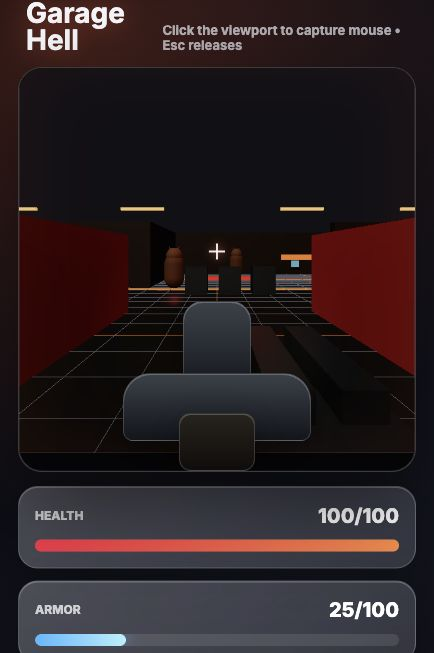
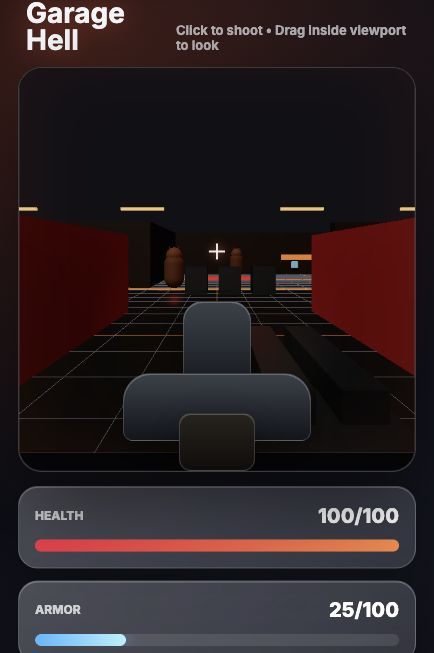
Stabilize browser controls and combat

Changed region(s): [[0.3594, 0.0306, 0.9286, 0.0919], [0.659, 0.3982, 0.6889, 0.4288]]

diff --git a/src/main.js b/src/main.js
@@ -36,7 +36,14 @@ class GarageHellGame {
     this.running = false;
     this.won = false;
     this.inCombat = false;
+    this.fallbackPointer = {
+      active: false,
+      moved: false,
+      x: 0,
+      y: 0
+    };
     this.bindEvents();
+    this.updateControlHints();
     this.resize();
     this.ui.update(this.state);
     requestAnimationFrame(() => this.loop());
@@ -55,13 +62,30 @@ class GarageHellGame {
     this.ui.bindStart(() => this.startOrRestart());
     this.viewport.addEventListener("click", () => {
       this.audio.unlock();
-      if (!this.running || this.player.dead || this.won) return;
-      this.captureMouse();
     });
     window.addEventListener("mousedown", (event) => {
-      const aimingAtViewport = document.pointerLockElement === this.viewport || this.viewport.contains(event.target);
+      const aimingAtViewport = this.viewport.contains(event.target);
       if (event.button !== 0 || !aimingAtViewport) return;
-      if (this.running && !this.player.dead && !this.won) this.weapon.tryFire(this.enemies);
+      if (!this.running || this.player.dead || this.won) return;
+      this.audio.unlock();
+      this.fallbackPointer = {
+        active: true,
+        moved: false,
+        x: event.clientX,
+        y: event.clientY
+      };
+    });
+    window.addEventListener("mousemove", (event) => {
+      if (!this.fallbackPointer.active) return;
+      const dx = event.clientX - this.fallbackPointer.x;
+      const dy = event.clientY - this.fallbackPointer.y;
+      if (dx * dx + dy * dy > 36) this.fallbackPointer.moved = true;
+    });
+    window.addEventListener("mouseup", (event) => {
+      if (event.button !== 0 || !this.fallbackPointer.active) return;
+      const shouldShoot = !this.fallbackPointer.moved && this.viewport.contains(event.target);
+      this.fallbackPointer.active = false;
+      if (shouldShoot && this.running && !this.player.dead && !this.won) this.fireWeapon();
     });
     window.addEventListener("keydown", (event) => {
       if (event.code === "KeyE" && this.running && !this.player.dead && !this.won) {
@@ -71,6 +95,13 @@ class GarageHellGame {
         this.startOrRestart();
       }
     });
+  }
+
+  updateControlHints() {
+    const hint = document.querySelector(".hint");
+    if (hint) hint.textContent = "Click to shoot • Drag inside viewport to look";
+    const controls = document.querySelector(".controls-panel p");
+    if (controls) controls.textContent = "WASD move • Drag look • Click fire • Shift sprint • Space jump • R reload • E open";
   }
 
   get state() {
@@ -97,17 +128,14 @@ class GarageHellGame {
     this.pickups.reset(this.level.pickups);
     this.running = true;
     this.won = false;
+    this.fallbackPointer.active = false;
+    this.fallbackPointer.moved = false;
     this.ui.hideOverlay();
     this.ui.showMessage("Clear all Oil Imps.", "FIGHTING");
   }
 
-  captureMouse() {
-    try {
-      const lock = this.viewport.requestPointerLock?.();
-      if (lock?.catch) lock.catch(() => {});
-    } catch {
-      // Pointer lock can be blocked in embedded preview browsers; direct local play still works.
-    }
+  fireWeapon() {
+    this.weapon.tryFire(this.enemies, this.level.getActiveColliderMeshes());
   }
 
   resize() {
@@ -144,7 +172,6 @@ class GarageHellGame {
       this.running = false;
       this.ui.update(this.state);
       this.ui.showOverlay("Garage Cleared", "Every Oil Imp is down. Hell Bent Auto Repair survives another night.", "Restart");
-      document.exitPointerLock?.();
       return;
     }
 

diff --git a/src/player.js b/src/player.js
@@ -32,6 +32,7 @@ export class Player {
     this.lookSensitivity = 0.0022;
     this.footBob = 0;
     this.damageCooldown = 0;
+    this.spawnProtection = 3;
     this.dragLook = false;
     this.bindControls();
     this.syncCamera();
@@ -43,8 +44,9 @@ export class Player {
       this.setKey(event.code, true);
     });
     window.addEventListener("keyup", (event) => this.setKey(event.code, false));
+    window.addEventListener("blur", () => this.clearControls());
     this.level.viewport.addEventListener("mousedown", (event) => {
-      if (event.button === 0 && document.pointerLockElement !== this.level.viewport && !this.dead) {
+      if (event.button === 0 && !this.dead) {
         this.dragLook = true;
       }
     });
@@ -55,8 +57,7 @@ export class Player {
       this.dragLook = false;
     });
     window.addEventListener("mousemove", (event) => {
-      const canLook = document.pointerLockElement === this.level.viewport || this.dragLook;
-      if (!canLook || this.dead) return;
+      if (!this.dragLook || this.dead) return;
       this.yaw -= event.movementX * this.lookSensitivity;
       this.pitch -= event.movementY * this.lookSensitivity;
       this.pitch = clamp(this.pitch, -1.25, 1.25);
@@ -73,7 +74,15 @@ export class Player {
     if (code === "Space") this.controls.jump = active;
   }
 
+  clearControls() {
+    for (const key of Object.keys(this.controls)) {
+      this.controls[key] = false;
+    }
+    this.dragLook = false;
+  }
+
   reset() {
+    this.clearControls();
     this.position.set(0, 1.65, 6.25);
     this.velocity.set(0, 0, 0);
     this.pitch = 0;
@@ -84,12 +93,14 @@ export class Player {
     this.keys = { red: false, blue: false, yellow: false };
     this.pickupCounts = { health: 0, armor: 0, ammo: 0 };
     this.damageCooldown = 0;
+    this.spawnProtection = 3;
     this.syncCamera();
   }
 
   update(dt) {
     if (this.dead) return;
     this.damageCooldown = Math.max(0, this.damageCooldown - dt);
+    this.spawnProtection = Math.max(0, this.spawnProtection - dt);
 
     const forward = new THREE.Vector3(-Math.sin(this.yaw), 0, -Math.cos(this.yaw));
     const right = new THREE.Vector3(Math.cos(this.yaw), 0, -Math.sin(this.yaw));
@@ -136,8 +147,8 @@ export class Player {
   }
 
   applyDamage(amount) {
-    if (this.dead || this.damageCooldown > 0) return;
-    this.damageCooldown = 0.28;
+    if (this.dead || this.damageCooldown > 0 || this.spawnProtection > 0) return;
+    this.damageCooldown = 0.55;
     const armorBlock = Math.min(this.armor, amount * 0.62);
     this.armor -= armorBlock;
     this.health -= amount - armorBlock;
@@ -147,7 +158,6 @@ export class Player {
       this.health = 0;
       this.dead = true;
       this.audio.death();
-      document.exitPointerLock?.();
     }
   }
 

diff --git a/src/level.js b/src/level.js
@@ -248,4 +248,20 @@ export class Level {
     door.collider.active = false;
     door.mesh.visible = false;
   }
+
+  getActiveColliderMeshes() {
+    return this.colliders
+      .filter((collider) => collider.active && collider.object?.visible !== false)
+      .map((collider) => collider.object);
+  }
+
+  hasLineOfSight(from, to, clearance = 0.2) {
+    const direction = new THREE.Vector3().subVectors(to, from);
+    const distance = direction.length();
+    if (distance <= 0.001) return true;
+    direction.normalize();
+
+    const raycaster = new THREE.Raycaster(from, direction, 0, Math.max(0, distance - clearance));
+    return raycaster.intersectObjects(this.getActiveColliderMeshes(), true).length === 0;
+  }
 }

diff --git a/src/enemies.js b/src/enemies.js
@@ -10,7 +10,7 @@ export class OilImp {
     this.velocity = new THREE.Vector3();
     this.health = 70;
     this.maxHealth = 70;
-    this.speed = 1.72 + Math.random() * 0.38;
+    this.speed = 1.28 + Math.random() * 0.28;
     this.attackCooldown = Math.random() * 0.8;
     this.radius = 0.48;
     this.dead = false;
@@ -56,7 +56,7 @@ export class OilImp {
     this.attackCooldown = Math.max(0, this.attackCooldown - dt);
     const toPlayer = new THREE.Vector3(player.position.x - this.position.x, 0, player.position.z - this.position.z);
     const distance = toPlayer.length();
-    const awake = distance < 10.5;
+    const awake = distance < 8.2;
 
     if (awake && !player.dead) {
       toPlayer.normalize();
@@ -64,9 +64,14 @@ export class OilImp {
       this.velocity.x = THREE.MathUtils.lerp(this.velocity.x, desired.x, clamp01(6 * dt));
       this.velocity.z = THREE.MathUtils.lerp(this.velocity.z, desired.z, clamp01(6 * dt));
 
-      if (distance < 1.18 && this.attackCooldown <= 0) {
-        player.applyDamage(10);
-        this.attackCooldown = 1.05;
+      const canReachPlayer = distance < 1.18 && this.level.hasLineOfSight(
+        new THREE.Vector3(this.position.x, 0.9, this.position.z),
+        new THREE.Vector3(player.position.x, 0.9, player.position.z),
+        0.55
+      );
+      if (canReachPlayer && this.attackCooldown <= 0) {
+        player.applyDamage(7);
+        this.attackCooldown = 1.35;
       }
     } else {
       this.velocity.multiplyScalar(0.9);

diff --git a/index.html b/index.html
@@ -16,7 +16,7 @@
           <p class="eyebrow">After-hours prototype</p>
           <h1>Garage Hell</h1>
         </div>
-        <div class="hint">Click the viewport to capture mouse • Esc releases</div>
+        <div class="hint">Click to shoot • Drag inside viewport to look</div>
       </header>
 
       <main class="shell">
@@ -100,7 +100,7 @@
 
           <section class="glass-panel controls-panel">
             <div class="panel-heading"><span>Controls</span></div>
-            <p>WASD move • Mouse look • Left click fire • Shift sprint • Space jump • R reload • E open</p>
+            <p>WASD move • Drag look • Click fire • Shift sprint • Space jump • R reload • E open</p>
           </section>
         </aside>
       </main>

diff --git a/src/weapons.js b/src/weapons.js
@@ -75,7 +75,7 @@ export class ImpactShotgun {
     this.reserve += amount;
   }
 
-  tryFire(enemies) {
+  tryFire(enemies, blockers = []) {
     if (this.cooldown > 0 || this.reloadTimer > 0) return false;
     if (this.loaded <= 0) {
       this.ui.showMessage("No shells loaded. Press R.", "EMPTY");
@@ -98,7 +98,7 @@ export class ImpactShotgun {
       direction.normalize();
       this.raycaster.set(this.camera.position, direction);
       this.raycaster.far = this.range;
-      const hit = this.raycaster.intersectObjects(enemies.getMeshes(), true)[0];
+      const hit = this.raycaster.intersectObjects([...enemies.getMeshes(), ...blockers], true)[0];
       if (hit) {
         const root = enemies.findByMesh(hit.object);
         if (root && (!bestHit || hit.distance < bestHit.distance)) bestHit = { enemy: root, distance: hit.distance };

diff --git a/README.md b/README.md
@@ -32,18 +32,18 @@ Then open the local URL printed by Vite, usually:
 http://127.0.0.1:5173
 ```
 
-Click the gameplay viewport to capture the mouse.
+Click inside the gameplay viewport to shoot. Drag inside the viewport to look around.
 
 ## Controls
 
 - WASD: move
-- Mouse: look
-- Left click: shoot the Impact Shotgun
+- Drag mouse in viewport: look
+- Click: shoot the Impact Shotgun
 - Shift: sprint
 - Space: jump
 - R: reload
 - E: interact/open door
-- Esc: release mouse
+- Esc: release browser focus if needed
 - Enter: restart from death/win screen
 
 ## Objective